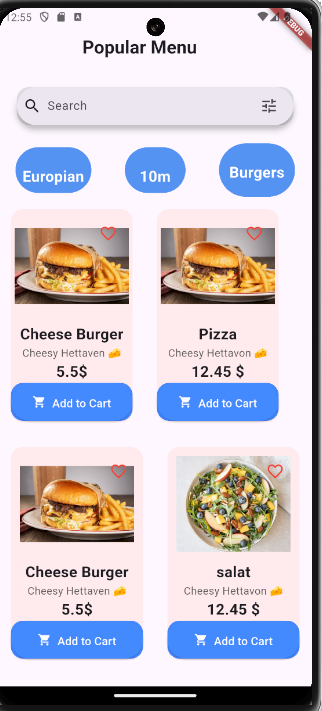
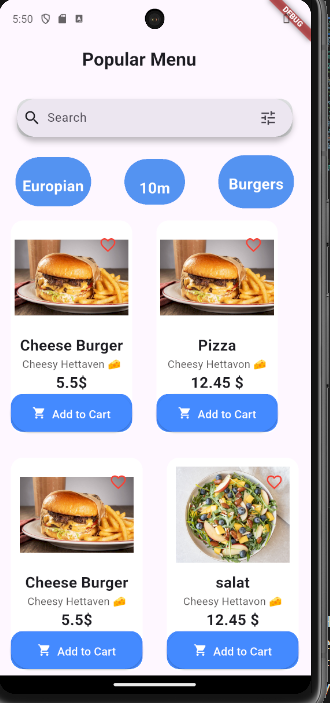
change background and image

diff --git a/widgets/menuItem .dart b/widgets/menuItem .dart
@@ -22,7 +22,7 @@ class MenuItem extends StatelessWidget {
       width: 160,
       height: 280,
       decoration: BoxDecoration(
-        color: Colors.red[50],// Light background color
+        color: Colors.white,// Light background color
         borderRadius: BorderRadius.circular(16),// Rounded corners
       ),
       child: Stack(// Using Stack for overlapping widgets
